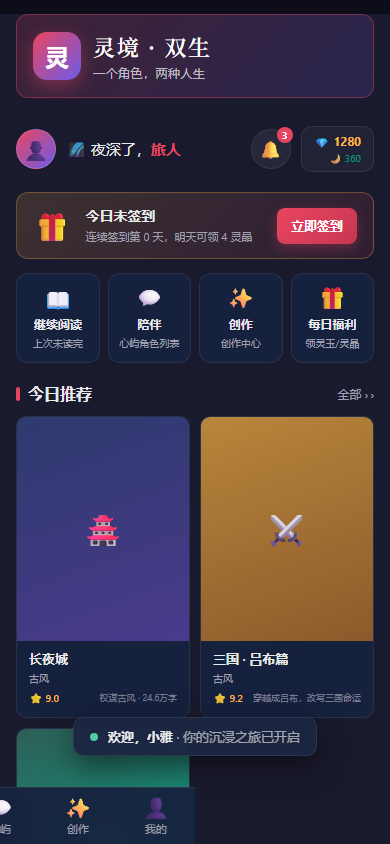
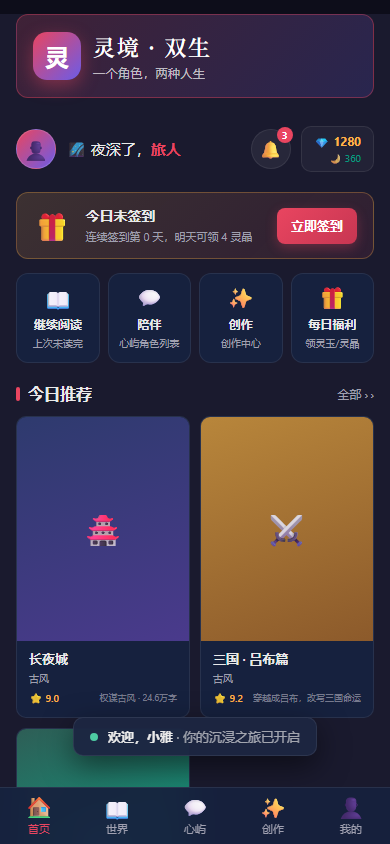
V20-E · tabbar 居中布局修复（26/26 PASS）
用户截图（1080×580 desktop 视口）：底部 5 Tab 跑到屏幕左边缘外，只能看到创作/我的两个 Tab。

根因：tabbar.js line 117-118 强制 inline left=0/right=0，覆盖了 shell-v64.css 的 left:50% + transform:translateX(-50%) 居中策略。desktop 视口下 max-width:480px 让 tabbar 贴在屏幕左边。

修复：移除 left:0/right:0，改用 left:50% + transform:translateX(-50%)，让 CSS max-width:480px 居中策略生效。

附带修复：creator-center.html 和 me.html 缺失 <script src="js/tabbar.js"></script>，导致静态手写 tabbar 没有 data-tab 属性 + active 状态错。补上后 mount() 统一管理。

回归测试 test_v20e_tabbar_centered.py（26/26 PASS）：
- A 段：product-preview.html 在 mobile/tablet/desktop 三视口 tabbar 全部居中 + 不超界
- B 段：5 主 Tab 页面 tabbar 全部存在 + 5 个 Tab + 居中 + 当前 Tab active

3 张截图：v20-e-{mobile, tablet, desktop}.png

diff --git a/output/preview/js/tabbar.js b/output/preview/js/tabbar.js
@@ -111,11 +111,14 @@
       bar.appendChild(a);
     });
     // V20-B：tabbar 永远在最顶层，z-index 200 高于所有 mask/dialog
+    // V20-E：保留 CSS 的 left:50% + transform:translateX(-50%) 居中策略，
+    //       不要用 left:0/right:0 强制铺满，否则 desktop 视口 + max-width:480px
+    //       会让 tabbar 贴在屏幕左边（手机游戏必须 mobile-first 居中）
     bar.style.zIndex = '200';
     bar.style.position = 'fixed';
     bar.style.bottom = '0';
-    bar.style.left = '0';
-    bar.style.right = '0';
+    bar.style.left = '50%';
+    bar.style.transform = 'translateX(-50%)';
     return bar;
   }
 

diff --git a/output/preview/creator-center.html b/output/preview/creator-center.html
@@ -226,5 +226,6 @@ function showToast(kind, title, msg){
   setTimeout(function(){ t.remove(); }, 3000);
 }
 </script>
+<script src="js/tabbar.js" data-page-node-id="v20e-tabbar-mount"></script>
 </body>
 </html>

diff --git a/output/preview/me.html b/output/preview/me.html
@@ -202,5 +202,6 @@ function showToast(kind, title, msg){
   setTimeout(function(){ t.remove(); }, 3000);
 }
 </script>
+<script src="js/tabbar.js" data-page-node-id="v20e-tabbar-mount"></script>
 </body>
 </html>

diff --git a/scripts/test_v20e_tabbar_centered.py b/scripts/test_v20e_tabbar_centered.py
@@ -1,0 +1,108 @@
+#!/usr/bin/env python
+# -*- coding: utf-8 -*-
+"""
+V20-E · tabbar 居中布局回归测试
+手机游戏设计：tabbar 必须 mobile-first 居中，禁止跑左边/右边出界
+"""
+from playwright.sync_api import sync_playwright
+import os, sys
+
+URL = 'http://localhost:8767/product-preview.html'
+SHOT_DIR = 'output/preview/screenshots'
+PAGES = [
+    ('product-preview.html', '#app'),
+    ('output/preview/library.html', 'main'),
+    ('output/preview/heart-island.html', 'main'),
+    ('output/preview/creator-center.html', 'main'),
+    ('output/preview/me.html', 'main'),
+]
+PASS = []
+FAIL = []
+
+def check(name, cond, detail=''):
+    if cond:
+        PASS.append(name)
+        print(f'  PASS  {name}')
+    else:
+        FAIL.append((name, detail))
+        print(f'  FAIL  {name}  -- {detail}')
+
+
+def main():
+    os.makedirs(SHOT_DIR, exist_ok=True)
+    with sync_playwright() as p:
+        b = p.chromium.launch(headless=True, args=['--no-sandbox', '--disable-gpu'])
+
+        # === A. 三视口居中校验（product-preview 主页）===
+        print('\n=== A. product-preview.html 多视口居中 ===')
+        for w, h, name in [(390, 844, 'mobile'), (768, 1024, 'tablet'), (1080, 580, 'desktop')]:
+            ctx = b.new_context(viewport={'width': w, 'height': h})
+            page = ctx.new_page()
+            page.goto(URL, wait_until='networkidle')
+            page.evaluate('''localStorage.setItem('lingjing_onboarding_done','true');
+                             localStorage.setItem('lingjing_user_profile', JSON.stringify({name:'小雅',gender:'female',ageRange:'25-34',companionType:'warm'}));''')
+            page.reload(wait_until='networkidle')
+            page.wait_for_timeout(800)
+            info = page.evaluate('''() => {
+              const tb = document.querySelector('.tabbar');
+              if (!tb) return null;
+              const r = tb.getBoundingClientRect();
+              return {x:r.x, w:r.width, viewportW:window.innerWidth,
+                      center:r.x+r.width/2,
+                      fits:r.x>=0 && r.x+r.width<=window.innerWidth};
+            }''')
+            if not info:
+                check(f'{name} ({w}×{h}) tabbar 存在', False, 'not found')
+                ctx.close()
+                continue
+            centered = abs(info['center'] - info['viewportW']/2) < 5
+            check(f'{name} ({w}×{h}) 居中', centered, f'center={info["center"]:.0f} vs vp={info["viewportW"]/2:.0f}')
+            check(f'{name} ({w}×{h}) 不超界', info['fits'], f'x={info["x"]:.0f} w={info["w"]:.0f}')
+            ctx.close()
+
+        # === B. 5 主 Tab 页面 tabbar 全部存在 + 居中 ===
+        print('\n=== B. 5 主 Tab 页面 tabbar 校验 ===')
+        for path, sel in PAGES:
+            full = f'http://localhost:8767/{path}'
+            ctx = b.new_context(viewport={'width': 1080, 'height': 720})
+            page = ctx.new_page()
+            page.goto(full, wait_until='networkidle')
+            # product-preview.html 默认走 splash/login/onb，#app 是 hidden
+            # tabbar 加到 hidden 父级后 rect=0，所以必须先设 onb_done=true
+            if 'product-preview' in path:
+                page.evaluate('''localStorage.setItem('lingjing_onboarding_done','true');
+                                 localStorage.setItem('lingjing_user_profile', JSON.stringify({name:'小雅',gender:'female',ageRange:'25-34',companionType:'warm'}));''')
+                page.reload(wait_until='networkidle')
+            page.wait_for_timeout(800)
+            info = page.evaluate('''() => {
+              const tb = document.querySelector('.tabbar');
+              if (!tb) return null;
+              const r = tb.getBoundingClientRect();
+              return {x:r.x, w:r.width, viewportW:window.innerWidth,
+                      tabs: document.querySelectorAll('.tabbar a').length,
+                      active: document.querySelector('.tabbar a.active')?.dataset.tab || null};
+            }''')
+            if not info:
+                check(f'{path} · tabbar 存在', False, 'not found')
+                ctx.close()
+                continue
+            centered = abs(info['x'] + info['w']/2 - info['viewportW']/2) < 5
+            check(f'{path} · tabbar 存在', True, '')
+            check(f'{path} · tabbar 5 Tab', info['tabs'] == 5, f'got={info["tabs"]}')
+            check(f'{path} · tabbar 居中', centered, f'center={info["x"]+info["w"]/2:.0f} vp/2={info["viewportW"]/2:.0f}')
+            check(f'{path} · 当前 Tab active', info['active'] is not None, f'active={info["active"]}')
+            ctx.close()
+
+        b.close()
+
+    print('\n' + '=' * 50)
+    print(f'PASS: {len(PASS)}    FAIL: {len(FAIL)}')
+    if FAIL:
+        for n, d in FAIL:
+            print(f'  FAIL  {n}: {d}')
+        sys.exit(1)
+    print('OK  tabbar 居中回归通过')
+
+
+if __name__ == '__main__':
+    main()
